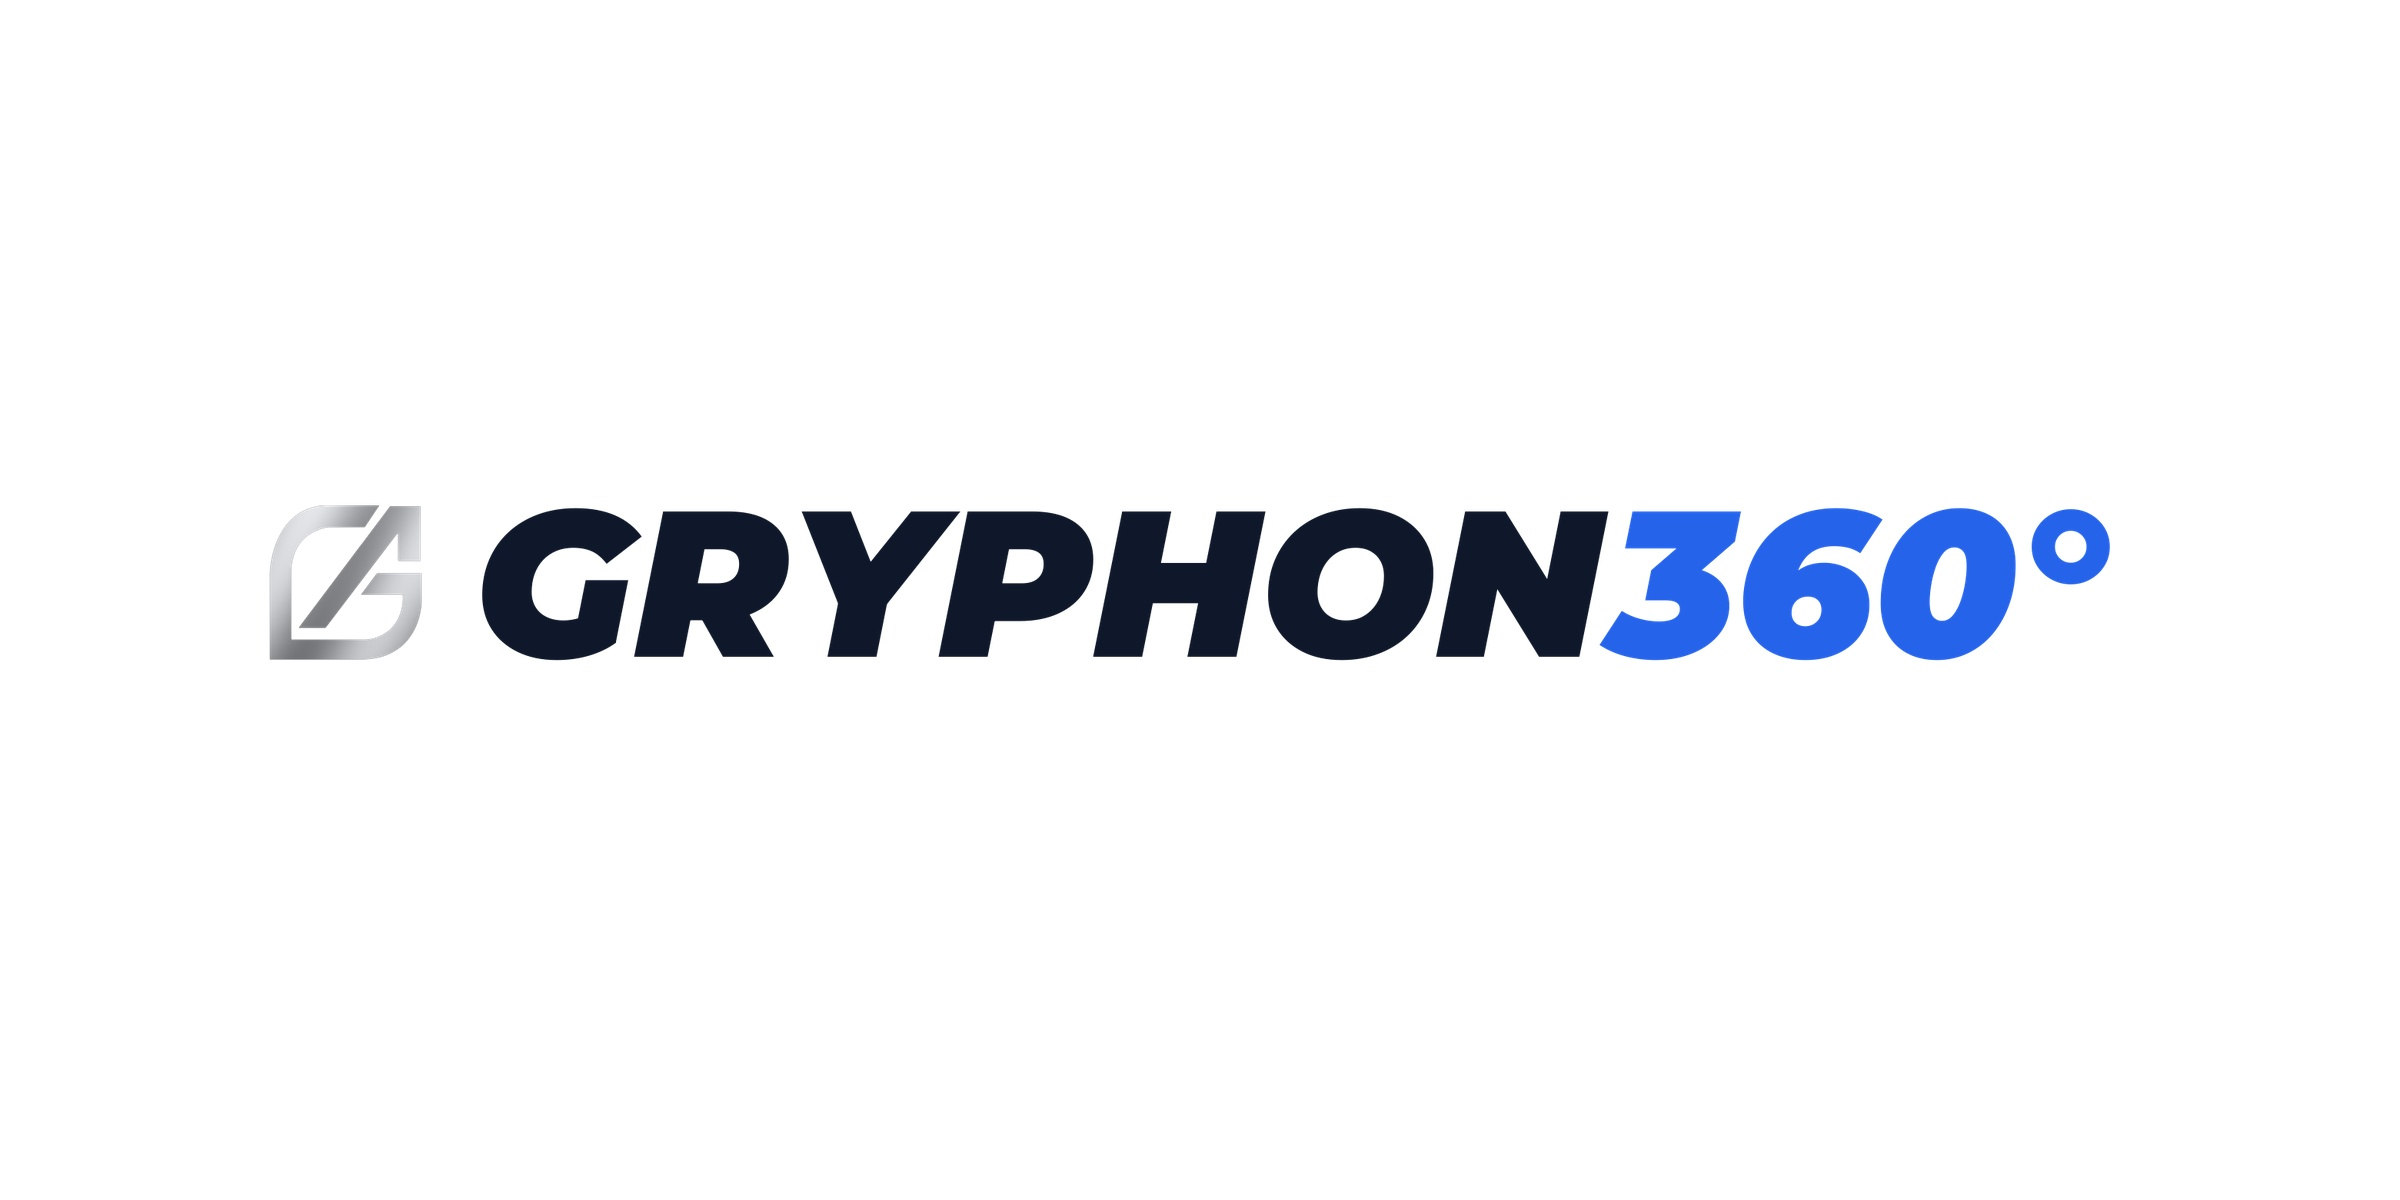
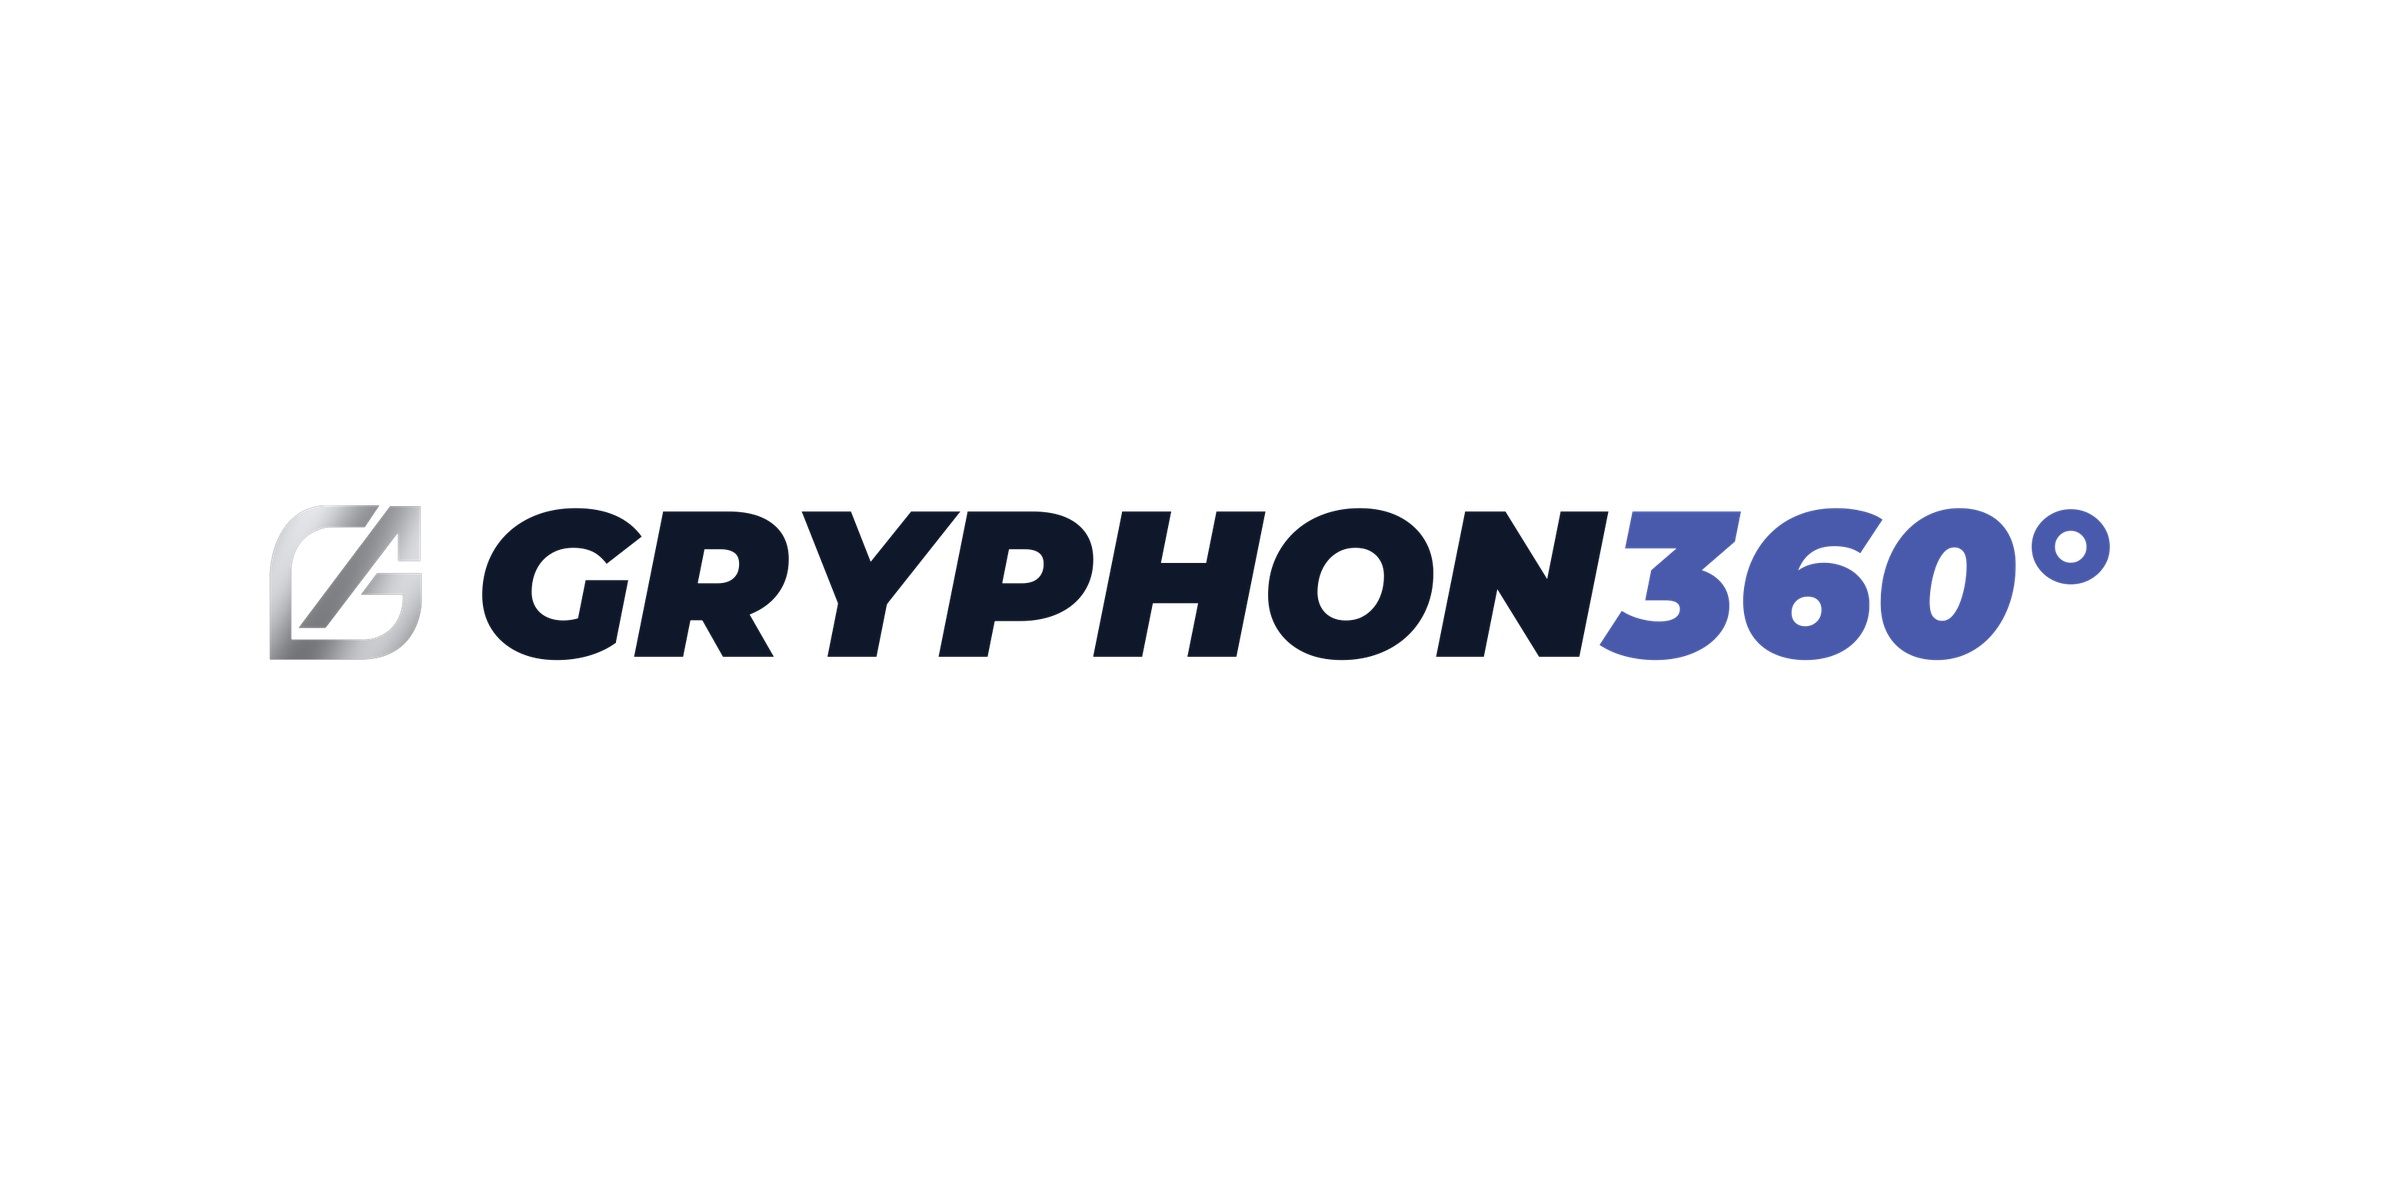
feat(branding): set 360° to #4959AB brand color across component and all high-res assets

Changed region(s): [[0.6562, 0.4008, 0.875, 0.555]]

diff --git a/src/components/ui/GryphonLogo.tsx b/src/components/ui/GryphonLogo.tsx
@@ -47,10 +47,7 @@ export const GryphonLogo: React.FC<GryphonLogoProps> = ({
       ? "text-slate-900"
       : "text-slate-900 dark:text-white";
 
-  const primaryBlueColor =
-    variant === "dark"
-      ? "text-blue-400"
-      : "text-blue-600 dark:text-blue-400";
+  const primaryBlueColor = "text-[#4959AB]";
 
   return (
     <div className={`inline-flex items-center select-none group ${sizeMap.gap} ${className}`}>
